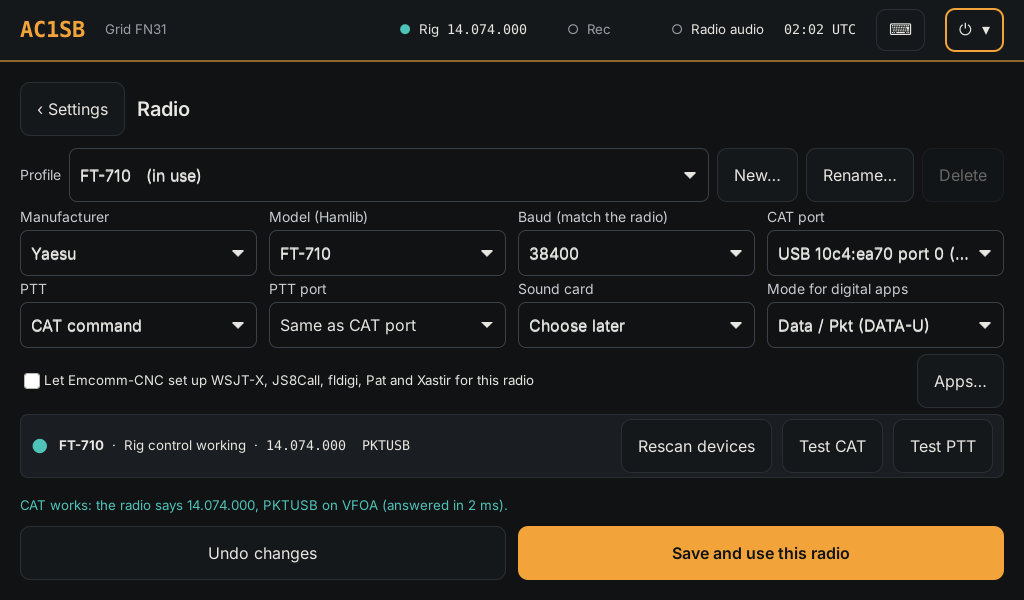
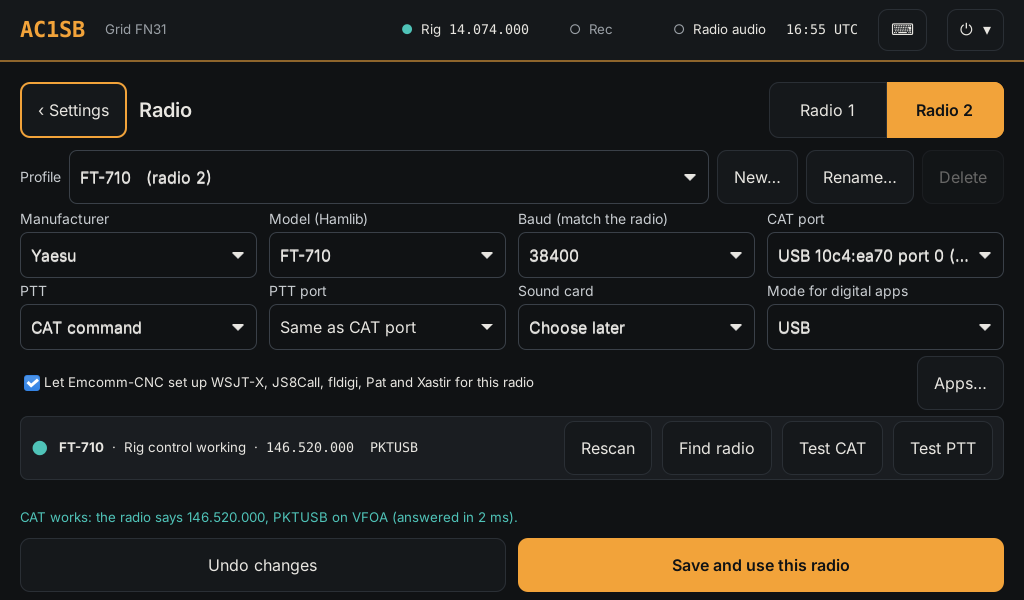
Operations guide: Find radio, switching radios, Radio 1 and Radio 2 (PR #62)
Claude-Session: https://claude.ai/code/session_01KrrrP7MbPFKsbp6WKuzKaV

diff --git a/docs/operations-guide.md b/docs/operations-guide.md
@@ -428,13 +428,17 @@ tap Connect; if the modem isn't running, the connect fails.
 - **APRS on the APRS radio + anything on the main radio.** With a second radio set up
   in Settings > APRS iGate, APRS has its own radio and sound card.
 - **Meshtastic and MeshCore** use their own LoRa radios.
+- **An app on radio 1 + an app on radio 2** ([Two radios at once](#two-radios-at-once-radio-1-and-radio-2)),
+  for example JS8Call on the FT-710 while Packet or VARA FM runs on a VHF radio.
+  Each transmits on its own radio.
 
 ### Don't run together
 
 - **Two modems for Pat at once** (VARA HF and VARA FM can't both start; VARA and
   ARDOP would both hear and answer).
-- **Two apps that control the radio's frequency**, such as WSJT-X and JS8Call: each
-  moves the radio to its own frequency. Close one before opening the other.
+- **Two apps that control the same radio's frequency**, such as WSJT-X and JS8Call:
+  each moves the radio to its own frequency. Close one before opening the other, or
+  put one on radio 2.
 - **Packet and APRS on the main radio** when there's no APRS radio: they share one
   Direwolf on one frequency.
 - **Scanner and Gqrx on the same dongle.** Each SDR dongle serves one program. With
@@ -603,8 +607,9 @@ band are in Reference.
 the NBEMS modes used to pass ICS forms. Forms' **Send by radio** uses fldigi.
 
 With the Settings > Radio box ticked, the station fills in your callsign and the
-rig control below each time fldigi is opened from its tile. Otherwise, set these
-once. The Audio setting is yours either way.
+rig control below each time fldigi is opened from its tile, and puts the radio in the
+profile's mode for digital apps (DATA-U or USB). Otherwise, set these once. The Audio
+setting is yours either way.
 
 **Configure > Rig Control > Hamlib**
 
@@ -1005,7 +1010,7 @@ file, then upload to the radio.
 
 ### Settings > Radio: radio profiles
 
-![Settings > Radio](guide/radio.png)
+![Settings > Radio, Radio 2 picked](guide/radio.png)
 
 Each radio you use is a **profile**, kept with its own settings. Pick one in
 **Profile** and tap **Save and use this radio** to switch the station to it. **New…**
@@ -1023,8 +1028,19 @@ in use can't be deleted.
 | Mode for digital apps | **Data / Pkt (DATA-U)** for HF data, **USB**, or **Leave the radio's mode (FM)** for a VHF/UHF FM radio |
 
 The strip under the fields shows whether rig control is working, with the radio's
-frequency and mode, and has **Rescan devices** (after plugging something in),
-**Test CAT** and **Test PTT** (asks first, keys for two seconds).
+frequency and mode, and has:
+
+- **Rescan:** looks again for what's plugged in.
+- **Find radio:** asks the radio on the CAT port who it is at each baud rate and
+  fills in the model and baud. Nothing transmits, but rig control stops for up to a
+  minute while it tries, so apps lose the radio meanwhile. Turn the radio on first.
+- **Test CAT:** reads the frequency and mode back from the radio.
+- **Test PTT:** asks first, then keys the radio for two seconds.
+
+**Swapping radios.** When a radio you've saved as a profile is plugged in and the
+one in use isn't, the station asks "*(radio)* is plugged in… Switch to it?". **Switch**
+restarts rig control for it (and sets up the apps for it, if that box is ticked);
+**Not now** leaves things as they are.
 
 | Radio | Preset | CAT | PTT | Sound card | Mode for digital apps |
 | --- | --- | --- | --- | --- | --- |
@@ -1037,6 +1053,26 @@ the main radio here and the APRS radio in Settings > APRS iGate. ⚠ The ID-5100
 preset is not yet tested on the radio.
 
 The radios' own menu settings are in [Part 4](#the-radios-own-menu-settings).
+
+### Two radios at once: Radio 1 and Radio 2
+
+**Radio 1** and **Radio 2** at the top right of Settings > Radio each edit one radio.
+Radio 1 is the main radio. Radio 2 is a second radio running alongside it, with its
+own rig control (`127.0.0.1:4533`) and sound card, for example the FT-710 on HF and a
+VHF/UHF radio for packet or VARA FM. Radio 2 is **Off** until you pick a profile for it
+and tap **Save and use this radio**. Each radio has its own light, **Test CAT** and
+**Test PTT**. One profile can't be both radios.
+
+![Apps on radio 2](guide/radio2-apps.png)
+
+**Apps…** picks which apps use radio 2, under **On radio 2**: WSJT-X, JS8Call,
+fldigi, **Packet and APRS (Direwolf)** and **VARA FM**. A ticked app uses radio 2's rig
+control and sound card; the rest use radio 1. With the "set up the apps" box ticked,
+the station points those apps at radio 2 for you. Without it, set a radio-2 app's rig
+control to **127.0.0.1:4533** by hand (the rest of its settings are as in its chapter).
+
+Radio 2 is separate from the APRS radio in Settings > APRS iGate; one radio can't be
+both.
 
 ---
 
@@ -1234,7 +1270,7 @@ serial port).
 
 | Problem | Check |
 | --- | --- |
-| Test CAT or Read frequency fails | Radio on and USB plugged in; Settings > Radio baud rate matches the radio's CAT RATE menu; **Rescan devices**, then **Save and use this radio** |
+| Test CAT or Read frequency fails | Radio on and USB plugged in; Settings > Radio > **Rescan**, then **Find radio** to fill in the model and baud; **Save and use this radio** |
 | An app says it can't reach the radio | It's set to **Hamlib NET rigctl, 127.0.0.1:4532**, not FLRig or the radio's own model. With the Settings > Radio box ticked, close the app and open it again from its tile |
 | Radio doesn't transmit | Diagnostics > PTT test; the app's PTT method is CAT |
 | Transmits but no audio goes out | Settings > Audio > Radio sound card names the radio; To radio level isn't at zero; Settings > Audio > Playing now shows the app on the radio |
